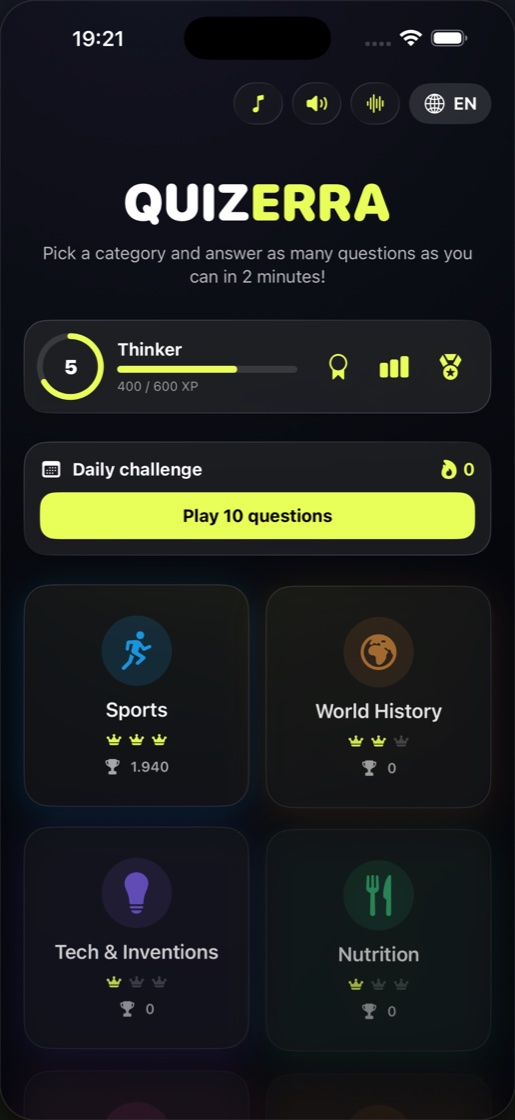
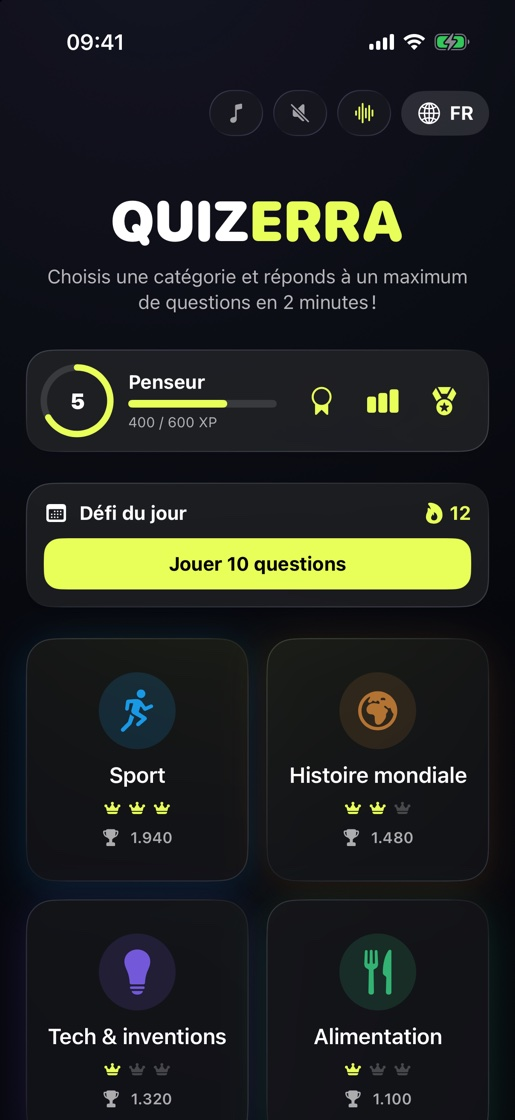
Quizerra auf Französisch: Seiten auf vier Sprachen, echte fr-Bilder, Duell-Menünamen französisch
- Startseite, Apps-Übersicht und Quizerra-Seite in DE/EN/ES/FR: vier Sprachen statt drei
- Quizerra-Bilder /fr/ jetzt echte französische Screenshots (vorher Kopie der englischen)
- Duell-Seite FR: Menünamen wieder französisch, Sprachliste um Französisch ergänzt

diff --git a/fr/apps/quizerra/index.html b/fr/apps/quizerra/index.html
@@ -4,7 +4,7 @@
 <meta charset="UTF-8">
 <meta name="viewport" content="width=device-width, initial-scale=1.0">
 <title>Quizerra – Quiz de culture générale contre la montre</title>
-<meta name="description" content="Quizerra est un quiz de culture générale rapide pour iPhone et iPad : 1 100 questions dans 11 catégories, deux minutes par manche, défi quotidien, 55 emblèmes à collectionner. Gratuit, disponible en allemand, anglais et espagnol.">
+<meta name="description" content="Quizerra est un quiz de culture générale rapide pour iPhone et iPad : 1 100 questions dans 11 catégories, deux minutes par manche, défi quotidien, 55 emblèmes à collectionner. Gratuit, disponible en allemand, anglais, espagnol et français.">
 <link rel="canonical" href="https://sevenfoxes.de/fr/apps/quizerra/">
 <link rel="alternate" hreflang="de" href="https://sevenfoxes.de/apps/quizerra/">
 <link rel="alternate" hreflang="en" href="https://sevenfoxes.de/en/apps/quizerra/">
@@ -12,7 +12,7 @@
 <link rel="alternate" hreflang="fr" href="https://sevenfoxes.de/fr/apps/quizerra/">
 <link rel="alternate" hreflang="x-default" href="https://sevenfoxes.de/apps/quizerra/">
 <meta property="og:title" content="Quizerra – Quiz de culture générale contre la montre">
-<meta property="og:description" content="Quizerra est un quiz de culture générale rapide pour iPhone et iPad : 1 100 questions dans 11 catégories, deux minutes par manche, défi quotidien, 55 emblèmes à collectionner. Gratuit, disponible en allemand, anglais et espagnol.">
+<meta property="og:description" content="Quizerra est un quiz de culture générale rapide pour iPhone et iPad : 1 100 questions dans 11 catégories, deux minutes par manche, défi quotidien, 55 emblèmes à collectionner. Gratuit, disponible en allemand, anglais, espagnol et français.">
 <meta property="og:image" content="https://sevenfoxes.de/assets/img/quizerra/icon.png">
 <meta property="og:type" content="website">
 <meta name="theme-color" content="#F6EDE4">
@@ -22,7 +22,7 @@
 <link rel="preload" href="/assets/fonts/Sora[wght].ttf" as="font" type="font/ttf" crossorigin>
 <link rel="stylesheet" href="/assets/site.css?v=20261016b">
 <meta name="apple-itunes-app" content="app-id=6789493203">
-<script type="application/ld+json">{"@context":"https://schema.org","@type":"MobileApplication","name":"Quizerra","description":"Quizerra est un quiz de culture générale rapide pour iPhone et iPad : 1 100 questions dans 11 catégories, deux minutes par manche, défi quotidien, 55 emblèmes à collectionner. Gratuit, disponible en allemand, anglais et espagnol.","url":"https://sevenfoxes.de/fr/apps/quizerra/","image":"https://sevenfoxes.de/assets/img/quizerra/icon.png","operatingSystem":"iOS","applicationCategory":"GameApplication","applicationSubCategory":"Quiz","availableOnDevice":"iPhone, iPad","installUrl":"https://apps.apple.com/app/id6789493203","inLanguage":"fr","offers":{"@type":"Offer","price":"0","priceCurrency":"EUR"},"publisher":{"@type":"Organization","name":"SevenFoxes Games","url":"https://sevenfoxes.de/"}}</script>
+<script type="application/ld+json">{"@context":"https://schema.org","@type":"MobileApplication","name":"Quizerra","description":"Quizerra est un quiz de culture générale rapide pour iPhone et iPad : 1 100 questions dans 11 catégories, deux minutes par manche, défi quotidien, 55 emblèmes à collectionner. Gratuit, disponible en allemand, anglais, espagnol et français.","url":"https://sevenfoxes.de/fr/apps/quizerra/","image":"https://sevenfoxes.de/assets/img/quizerra/icon.png","operatingSystem":"iOS","applicationCategory":"GameApplication","applicationSubCategory":"Quiz","availableOnDevice":"iPhone, iPad","installUrl":"https://apps.apple.com/app/id6789493203","inLanguage":"fr","offers":{"@type":"Offer","price":"0","priceCurrency":"EUR"},"publisher":{"@type":"Organization","name":"SevenFoxes Games","url":"https://sevenfoxes.de/"}}</script>
 <script data-goatcounter="https://sevenfoxes.goatcounter.com/count" async src="https://gc.zgo.at/count.js"></script>
 </head>
 <body data-world="noir" class="">
@@ -87,7 +87,7 @@ if(n>Date.parse(b.dataset.until)||(b.dataset.from&&n<Date.parse(b.dataset.from))
     <p class="app-sub">Quiz de culture générale contre la montre</p>
     <p class="lead">Que savez-vous vraiment ? Découvrez-le en deux minutes – avec 1 100 questions dans 11 catégories, pour tous ceux qui aiment réfléchir, apprendre et battre leur meilleur score.</p>
     <div class="actions"><a class="btn btn-store" href="https://apps.apple.com/app/id6789493203" rel="noopener"><span class="apple" aria-hidden="true">&#63743;</span><span>Télécharger dans l’App Store<br><small>Gratuit · iPhone & iPad</small></span></a></div>
-    <ul class="statrow"><li><b>1 100</b><span>questions</span></li><li><b>11</b><span>catégories</span></li><li><b>2 min</b><span>par manche</span></li><li><b>3</b><span>langues</span></li></ul>
+    <ul class="statrow"><li><b>1 100</b><span>questions</span></li><li><b>11</b><span>catégories</span></li><li><b>2 min</b><span>par manche</span></li><li><b>4</b><span>langues</span></li></ul>
   </div>
   <div class="panel-art">
     <img class="device" src="/assets/img/quizerra/fr/hero-device.jpg" alt="Menu principal de Quizerra avec les catégories, l’indicateur de niveau et le défi quotidien" width="560" height="1216">

diff --git a/apps/quizerra/index.html b/apps/quizerra/index.html
@@ -4,7 +4,7 @@
 <meta charset="UTF-8">
 <meta name="viewport" content="width=device-width, initial-scale=1.0">
 <title>Quizerra – Wissensquiz gegen die Zeit</title>
-<meta name="description" content="Quizerra ist ein schnelles Wissensquiz für iPhone und iPad: 1.100 Fragen in 11 Kategorien, zwei Minuten pro Runde, tägliche Challenge, 55 Embleme zum Sammeln. Kostenlos, in Deutsch, Englisch und Spanisch.">
+<meta name="description" content="Quizerra ist ein schnelles Wissensquiz für iPhone und iPad: 1.100 Fragen in 11 Kategorien, zwei Minuten pro Runde, tägliche Challenge, 55 Embleme zum Sammeln. Kostenlos, in Deutsch, Englisch, Spanisch und Französisch.">
 <link rel="canonical" href="https://sevenfoxes.de/apps/quizerra/">
 <link rel="alternate" hreflang="de" href="https://sevenfoxes.de/apps/quizerra/">
 <link rel="alternate" hreflang="en" href="https://sevenfoxes.de/en/apps/quizerra/">
@@ -12,7 +12,7 @@
 <link rel="alternate" hreflang="fr" href="https://sevenfoxes.de/fr/apps/quizerra/">
 <link rel="alternate" hreflang="x-default" href="https://sevenfoxes.de/apps/quizerra/">
 <meta property="og:title" content="Quizerra – Wissensquiz gegen die Zeit">
-<meta property="og:description" content="Quizerra ist ein schnelles Wissensquiz für iPhone und iPad: 1.100 Fragen in 11 Kategorien, zwei Minuten pro Runde, tägliche Challenge, 55 Embleme zum Sammeln. Kostenlos, in Deutsch, Englisch und Spanisch.">
+<meta property="og:description" content="Quizerra ist ein schnelles Wissensquiz für iPhone und iPad: 1.100 Fragen in 11 Kategorien, zwei Minuten pro Runde, tägliche Challenge, 55 Embleme zum Sammeln. Kostenlos, in Deutsch, Englisch, Spanisch und Französisch.">
 <meta property="og:image" content="https://sevenfoxes.de/assets/img/quizerra/icon.png">
 <meta property="og:type" content="website">
 <meta name="theme-color" content="#F6EDE4">
@@ -22,7 +22,7 @@
 <link rel="preload" href="/assets/fonts/Sora[wght].ttf" as="font" type="font/ttf" crossorigin>
 <link rel="stylesheet" href="/assets/site.css?v=20261016b">
 <meta name="apple-itunes-app" content="app-id=6789493203">
-<script type="application/ld+json">{"@context":"https://schema.org","@type":"MobileApplication","name":"Quizerra","description":"Quizerra ist ein schnelles Wissensquiz für iPhone und iPad: 1.100 Fragen in 11 Kategorien, zwei Minuten pro Runde, tägliche Challenge, 55 Embleme zum Sammeln. Kostenlos, in Deutsch, Englisch und Spanisch.","url":"https://sevenfoxes.de/apps/quizerra/","image":"https://sevenfoxes.de/assets/img/quizerra/icon.png","operatingSystem":"iOS","applicationCategory":"GameApplication","applicationSubCategory":"Quiz","availableOnDevice":"iPhone, iPad","installUrl":"https://apps.apple.com/app/id6789493203","inLanguage":"de","offers":{"@type":"Offer","price":"0","priceCurrency":"EUR"},"publisher":{"@type":"Organization","name":"SevenFoxes Games","url":"https://sevenfoxes.de/"}}</script>
+<script type="application/ld+json">{"@context":"https://schema.org","@type":"MobileApplication","name":"Quizerra","description":"Quizerra ist ein schnelles Wissensquiz für iPhone und iPad: 1.100 Fragen in 11 Kategorien, zwei Minuten pro Runde, tägliche Challenge, 55 Embleme zum Sammeln. Kostenlos, in Deutsch, Englisch, Spanisch und Französisch.","url":"https://sevenfoxes.de/apps/quizerra/","image":"https://sevenfoxes.de/assets/img/quizerra/icon.png","operatingSystem":"iOS","applicationCategory":"GameApplication","applicationSubCategory":"Quiz","availableOnDevice":"iPhone, iPad","installUrl":"https://apps.apple.com/app/id6789493203","inLanguage":"de","offers":{"@type":"Offer","price":"0","priceCurrency":"EUR"},"publisher":{"@type":"Organization","name":"SevenFoxes Games","url":"https://sevenfoxes.de/"}}</script>
 <script data-goatcounter="https://sevenfoxes.goatcounter.com/count" async src="https://gc.zgo.at/count.js"></script>
 </head>
 <body data-world="noir" class="">
@@ -87,7 +87,7 @@ if(n>Date.parse(b.dataset.until)||(b.dataset.from&&n<Date.parse(b.dataset.from))
     <p class="app-sub">Wissensquiz gegen die Zeit</p>
     <p class="lead">Wie viel weißt du wirklich? Finde es in zwei Minuten heraus – mit 1.100 Fragen aus 11 Kategorien, für alle, die gern nachdenken, dazulernen und ihren Highscore knacken.</p>
     <div class="actions"><a class="btn btn-store" href="https://apps.apple.com/app/id6789493203" rel="noopener"><span class="apple" aria-hidden="true">&#63743;</span><span>Im App Store laden<br><small>Kostenlos · iPhone & iPad</small></span></a></div>
-    <ul class="statrow"><li><b>1.100</b><span>Fragen</span></li><li><b>11</b><span>Kategorien</span></li><li><b>2 Min</b><span>pro Runde</span></li><li><b>3</b><span>Sprachen</span></li></ul>
+    <ul class="statrow"><li><b>1.100</b><span>Fragen</span></li><li><b>11</b><span>Kategorien</span></li><li><b>2 Min</b><span>pro Runde</span></li><li><b>4</b><span>Sprachen</span></li></ul>
   </div>
   <div class="panel-art">
     <img class="device" src="/assets/img/quizerra/de/hero-device.jpg" alt="Quizerra-Hauptmenü mit Kategorien, Level-Anzeige und täglicher Challenge" width="560" height="1216">

diff --git a/en/apps/quizerra/index.html b/en/apps/quizerra/index.html
@@ -4,7 +4,7 @@
 <meta charset="UTF-8">
 <meta name="viewport" content="width=device-width, initial-scale=1.0">
 <title>Quizerra – trivia against the clock</title>
-<meta name="description" content="Quizerra is a fast-paced trivia game for iPhone and iPad: 1,100 questions across 11 categories, two minutes per round, a daily challenge and 55 emblems to collect. Free, in English, German and Spanish.">
+<meta name="description" content="Quizerra is a fast-paced trivia game for iPhone and iPad: 1,100 questions across 11 categories, two minutes per round, a daily challenge and 55 emblems to collect. Free, in English, German, Spanish and French.">
 <link rel="canonical" href="https://sevenfoxes.de/en/apps/quizerra/">
 <link rel="alternate" hreflang="de" href="https://sevenfoxes.de/apps/quizerra/">
 <link rel="alternate" hreflang="en" href="https://sevenfoxes.de/en/apps/quizerra/">
@@ -12,7 +12,7 @@
 <link rel="alternate" hreflang="fr" href="https://sevenfoxes.de/fr/apps/quizerra/">
 <link rel="alternate" hreflang="x-default" href="https://sevenfoxes.de/apps/quizerra/">
 <meta property="og:title" content="Quizerra – trivia against the clock">
-<meta property="og:description" content="Quizerra is a fast-paced trivia game for iPhone and iPad: 1,100 questions across 11 categories, two minutes per round, a daily challenge and 55 emblems to collect. Free, in English, German and Spanish.">
+<meta property="og:description" content="Quizerra is a fast-paced trivia game for iPhone and iPad: 1,100 questions across 11 categories, two minutes per round, a daily challenge and 55 emblems to collect. Free, in English, German, Spanish and French.">
 <meta property="og:image" content="https://sevenfoxes.de/assets/img/quizerra/icon.png">
 <meta property="og:type" content="website">
 <meta name="theme-color" content="#F6EDE4">
@@ -22,7 +22,7 @@
 <link rel="preload" href="/assets/fonts/Sora[wght].ttf" as="font" type="font/ttf" crossorigin>
 <link rel="stylesheet" href="/assets/site.css?v=20261016b">
 <meta name="apple-itunes-app" content="app-id=6789493203">
-<script type="application/ld+json">{"@context":"https://schema.org","@type":"MobileApplication","name":"Quizerra","description":"Quizerra is a fast-paced trivia game for iPhone and iPad: 1,100 questions across 11 categories, two minutes per round, a daily challenge and 55 emblems to collect. Free, in English, German and Spanish.","url":"https://sevenfoxes.de/en/apps/quizerra/","image":"https://sevenfoxes.de/assets/img/quizerra/icon.png","operatingSystem":"iOS","applicationCategory":"GameApplication","applicationSubCategory":"Quiz","availableOnDevice":"iPhone, iPad","installUrl":"https://apps.apple.com/app/id6789493203","inLanguage":"en","offers":{"@type":"Offer","price":"0","priceCurrency":"EUR"},"publisher":{"@type":"Organization","name":"SevenFoxes Games","url":"https://sevenfoxes.de/"}}</script>
+<script type="application/ld+json">{"@context":"https://schema.org","@type":"MobileApplication","name":"Quizerra","description":"Quizerra is a fast-paced trivia game for iPhone and iPad: 1,100 questions across 11 categories, two minutes per round, a daily challenge and 55 emblems to collect. Free, in English, German, Spanish and French.","url":"https://sevenfoxes.de/en/apps/quizerra/","image":"https://sevenfoxes.de/assets/img/quizerra/icon.png","operatingSystem":"iOS","applicationCategory":"GameApplication","applicationSubCategory":"Quiz","availableOnDevice":"iPhone, iPad","installUrl":"https://apps.apple.com/app/id6789493203","inLanguage":"en","offers":{"@type":"Offer","price":"0","priceCurrency":"EUR"},"publisher":{"@type":"Organization","name":"SevenFoxes Games","url":"https://sevenfoxes.de/"}}</script>
 <script data-goatcounter="https://sevenfoxes.goatcounter.com/count" async src="https://gc.zgo.at/count.js"></script>
 </head>
 <body data-world="noir" class="">
@@ -87,7 +87,7 @@ if(n>Date.parse(b.dataset.until)||(b.dataset.from&&n<Date.parse(b.dataset.from))
     <p class="app-sub">Trivia against the clock</p>
     <p class="lead">How much do you really know? Find out in two minutes – with 1,100 questions across 11 categories, for everyone who loves to think, learn something new and beat their own high score.</p>
     <div class="actions"><a class="btn btn-store" href="https://apps.apple.com/app/id6789493203" rel="noopener"><span class="apple" aria-hidden="true">&#63743;</span><span>Download on the App Store<br><small>Free · iPhone & iPad</small></span></a></div>
-    <ul class="statrow"><li><b>1,100</b><span>questions</span></li><li><b>11</b><span>categories</span></li><li><b>2 min</b><span>per round</span></li><li><b>3</b><span>languages</span></li></ul>
+    <ul class="statrow"><li><b>1,100</b><span>questions</span></li><li><b>11</b><span>categories</span></li><li><b>2 min</b><span>per round</span></li><li><b>4</b><span>languages</span></li></ul>
   </div>
   <div class="panel-art">
     <img class="device" src="/assets/img/quizerra/en/hero-device.jpg" alt="Quizerra main menu with categories, level indicator and daily challenge" width="560" height="1216">

diff --git a/es/apps/quizerra/index.html b/es/apps/quizerra/index.html
@@ -4,7 +4,7 @@
 <meta charset="UTF-8">
 <meta name="viewport" content="width=device-width, initial-scale=1.0">
 <title>Quizerra – trivial contrarreloj</title>
-<meta name="description" content="Quizerra es un juego de preguntas rápido para iPhone y iPad: 1.100 preguntas en 11 categorías, dos minutos por ronda, reto diario y 55 emblemas por coleccionar. Gratis, en español, alemán e inglés.">
+<meta name="description" content="Quizerra es un juego de preguntas rápido para iPhone y iPad: 1.100 preguntas en 11 categorías, dos minutos por ronda, reto diario y 55 emblemas por coleccionar. Gratis, en español, alemán, inglés y francés.">
 <link rel="canonical" href="https://sevenfoxes.de/es/apps/quizerra/">
 <link rel="alternate" hreflang="de" href="https://sevenfoxes.de/apps/quizerra/">
 <link rel="alternate" hreflang="en" href="https://sevenfoxes.de/en/apps/quizerra/">
@@ -12,7 +12,7 @@
 <link rel="alternate" hreflang="fr" href="https://sevenfoxes.de/fr/apps/quizerra/">
 <link rel="alternate" hreflang="x-default" href="https://sevenfoxes.de/apps/quizerra/">
 <meta property="og:title" content="Quizerra – trivial contrarreloj">
-<meta property="og:description" content="Quizerra es un juego de preguntas rápido para iPhone y iPad: 1.100 preguntas en 11 categorías, dos minutos por ronda, reto diario y 55 emblemas por coleccionar. Gratis, en español, alemán e inglés.">
+<meta property="og:description" content="Quizerra es un juego de preguntas rápido para iPhone y iPad: 1.100 preguntas en 11 categorías, dos minutos por ronda, reto diario y 55 emblemas por coleccionar. Gratis, en español, alemán, inglés y francés.">
 <meta property="og:image" content="https://sevenfoxes.de/assets/img/quizerra/icon.png">
 <meta property="og:type" content="website">
 <meta name="theme-color" content="#F6EDE4">
@@ -22,7 +22,7 @@
 <link rel="preload" href="/assets/fonts/Sora[wght].ttf" as="font" type="font/ttf" crossorigin>
 <link rel="stylesheet" href="/assets/site.css?v=20261016b">
 <meta name="apple-itunes-app" content="app-id=6789493203">
-<script type="application/ld+json">{"@context":"https://schema.org","@type":"MobileApplication","name":"Quizerra","description":"Quizerra es un juego de preguntas rápido para iPhone y iPad: 1.100 preguntas en 11 categorías, dos minutos por ronda, reto diario y 55 emblemas por coleccionar. Gratis, en español, alemán e inglés.","url":"https://sevenfoxes.de/es/apps/quizerra/","image":"https://sevenfoxes.de/assets/img/quizerra/icon.png","operatingSystem":"iOS","applicationCategory":"GameApplication","applicationSubCategory":"Quiz","availableOnDevice":"iPhone, iPad","installUrl":"https://apps.apple.com/app/id6789493203","inLanguage":"es","offers":{"@type":"Offer","price":"0","priceCurrency":"EUR"},"publisher":{"@type":"Organization","name":"SevenFoxes Games","url":"https://sevenfoxes.de/"}}</script>
+<script type="application/ld+json">{"@context":"https://schema.org","@type":"MobileApplication","name":"Quizerra","description":"Quizerra es un juego de preguntas rápido para iPhone y iPad: 1.100 preguntas en 11 categorías, dos minutos por ronda, reto diario y 55 emblemas por coleccionar. Gratis, en español, alemán, inglés y francés.","url":"https://sevenfoxes.de/es/apps/quizerra/","image":"https://sevenfoxes.de/assets/img/quizerra/icon.png","operatingSystem":"iOS","applicationCategory":"GameApplication","applicationSubCategory":"Quiz","availableOnDevice":"iPhone, iPad","installUrl":"https://apps.apple.com/app/id6789493203","inLanguage":"es","offers":{"@type":"Offer","price":"0","priceCurrency":"EUR"},"publisher":{"@type":"Organization","name":"SevenFoxes Games","url":"https://sevenfoxes.de/"}}</script>
 <script data-goatcounter="https://sevenfoxes.goatcounter.com/count" async src="https://gc.zgo.at/count.js"></script>
 </head>
 <body data-world="noir" class="">
@@ -87,7 +87,7 @@ if(n>Date.parse(b.dataset.until)||(b.dataset.from&&n<Date.parse(b.dataset.from))
     <p class="app-sub">Trivial contrarreloj</p>
     <p class="lead">¿Cuánto sabes de verdad? Descúbrelo en dos minutos, con 1.100 preguntas en 11 categorías, para quienes disfrutan pensando, aprendiendo cosas nuevas y superando su récord.</p>
     <div class="actions"><a class="btn btn-store" href="https://apps.apple.com/app/id6789493203" rel="noopener"><span class="apple" aria-hidden="true">&#63743;</span><span>Descargar en el App Store<br><small>Gratis · iPhone y iPad</small></span></a></div>
-    <ul class="statrow"><li><b>1.100</b><span>preguntas</span></li><li><b>11</b><span>categorías</span></li><li><b>2 min</b><span>por ronda</span></li><li><b>3</b><span>idiomas</span></li></ul>
+    <ul class="statrow"><li><b>1.100</b><span>preguntas</span></li><li><b>11</b><span>categorías</span></li><li><b>2 min</b><span>por ronda</span></li><li><b>4</b><span>idiomas</span></li></ul>
   </div>
   <div class="panel-art">
     <img class="device" src="/assets/img/quizerra/es/hero-device.jpg" alt="Menú principal de Quizerra con categorías, indicador de nivel y reto diario" width="560" height="1216">

diff --git a/index.html b/index.html
@@ -99,7 +99,7 @@ if(n>Date.parse(b.dataset.until)||(b.dataset.from&&n<Date.parse(b.dataset.from))
       <h3 id="p-quizerra"><span class="display">QUIZ<b>ERRA</b></span></h3></div>
     <p class="app-sub">Wissensquiz gegen die Zeit</p>
     <p>Wähle eine Kategorie und beantworte in zwei Minuten so viele Fragen wie möglich. Jede richtige Antwort bringt Punkte, Serien bringen Bonus.</p>
-    <ul class="facts"><li>1.100 Fragen</li><li>11 Kategorien</li><li>3 Sprachen</li><li>Kostenlos</li></ul>
+    <ul class="facts"><li>1.100 Fragen</li><li>11 Kategorien</li><li>4 Sprachen</li><li>Kostenlos</li></ul>
     <div class="actions"><a class="btn btn-store" href="https://apps.apple.com/app/id6789493203" rel="noopener"><span class="apple" aria-hidden="true">&#63743;</span><span>Im App Store laden<br><small>Kostenlos · iPhone & iPad</small></span></a>
       <a class="btn btn-ghost" href="/apps/quizerra/">Mehr erfahren</a></div>
   </div>
@@ -150,8 +150,8 @@ if(n>Date.parse(b.dataset.until)||(b.dataset.from&&n<Date.parse(b.dataset.from))
     <p class="eyebrow">Das Studio</p>
     <h2>Klein, unabhängig, selbst gebaut</h2>
   </div>
-  <div class="narrow"><p>SevenFoxes Games ist ein Ein-Personen-Studio. Jede Frage in unseren Apps ist von Hand geschrieben und in drei Sprachen geprüft – nicht übersetzt, sondern jeweils so formuliert, wie man es in der Sprache tatsächlich fragen würde.</p><p>Wir bauen Spiele, die wir selbst gern spielen: schnell zu starten, ohne Anmeldung, ohne Wartezeiten und ohne Tricks, die einen länger festhalten sollen als man möchte.</p></div>
-  <div class="principles"><div class="principle"><h3>Kein Konto, keine Server</h3><p>Spielstände bleiben auf deinem Gerät. Wir betreiben keine eigenen Server und sammeln nichts ein.</p></div><div class="principle"><h3>Drei Sprachen, ein Katalog</h3><p>Deutsch, Englisch und Spanisch – jede Frage in jeder Sprache eigens formuliert und geprüft.</p></div><div class="principle"><h3>Für Kinder werbefrei</h3><p>Quizerra Kids kommt ohne Werbung und Tracking aus. Alles, was Geld kostet, liegt hinter einer Elternsicherung.</p></div></div>
+  <div class="narrow"><p>SevenFoxes Games ist ein Ein-Personen-Studio. Jede Frage in unseren Apps ist von Hand geschrieben und in vier Sprachen geprüft – nicht übersetzt, sondern jeweils so formuliert, wie man es in der Sprache tatsächlich fragen würde.</p><p>Wir bauen Spiele, die wir selbst gern spielen: schnell zu starten, ohne Anmeldung, ohne Wartezeiten und ohne Tricks, die einen länger festhalten sollen als man möchte.</p></div>
+  <div class="principles"><div class="principle"><h3>Kein Konto, keine Server</h3><p>Spielstände bleiben auf deinem Gerät. Wir betreiben keine eigenen Server und sammeln nichts ein.</p></div><div class="principle"><h3>Vier Sprachen, ein Katalog</h3><p>Deutsch, Englisch, Spanisch und Französisch – jede Frage in jeder Sprache eigens formuliert und geprüft.</p></div><div class="principle"><h3>Für Kinder werbefrei</h3><p>Quizerra Kids kommt ohne Werbung und Tracking aus. Alles, was Geld kostet, liegt hinter einer Elternsicherung.</p></div></div>
 </section>
 </main>
 

diff --git a/es/index.html b/es/index.html
@@ -99,7 +99,7 @@ if(n>Date.parse(b.dataset.until)||(b.dataset.from&&n<Date.parse(b.dataset.from))
       <h3 id="p-quizerra"><span class="display">QUIZ<b>ERRA</b></span></h3></div>
     <p class="app-sub">Trivial contrarreloj</p>
     <p>Elige una categoría y responde tantas preguntas como puedas en dos minutos. Cada acierto suma puntos y las rachas dan bonus.</p>
-    <ul class="facts"><li>1.100 preguntas</li><li>11 categorías</li><li>3 idiomas</li><li>Gratis</li></ul>
+    <ul class="facts"><li>1.100 preguntas</li><li>11 categorías</li><li>4 idiomas</li><li>Gratis</li></ul>
     <div class="actions"><a class="btn btn-store" href="https://apps.apple.com/app/id6789493203" rel="noopener"><span class="apple" aria-hidden="true">&#63743;</span><span>Descargar en el App Store<br><small>Gratis · iPhone y iPad</small></span></a>
       <a class="btn btn-ghost" href="/es/apps/quizerra/">Más información</a></div>
   </div>
@@ -150,8 +150,8 @@ if(n>Date.parse(b.dataset.until)||(b.dataset.from&&n<Date.parse(b.dataset.from))
     <p class="eyebrow">El estudio</p>
     <h2>Pequeño, independiente, hecho a mano</h2>
   </div>
-  <div class="narrow"><p>SevenFoxes Games es un estudio de una sola persona. Cada pregunta de nuestras apps está escrita a mano y revisada en tres idiomas: no traducida, sino formulada tal como se preguntaría de verdad en cada idioma.</p><p>Hacemos los juegos que nos gusta jugar: rápidos de empezar, sin registro, sin esperas y sin trucos pensados para retenerte más tiempo del que quieres.</p></div>
-  <div class="principles"><div class="principle"><h3>Sin cuenta, sin servidores</h3><p>Tu progreso se queda en tu dispositivo. No tenemos servidores propios y no recopilamos nada.</p></div><div class="principle"><h3>Tres idiomas, un catálogo</h3><p>Español, alemán e inglés: cada pregunta escrita y revisada por separado en cada idioma.</p></div><div class="principle"><h3>Sin publicidad para los niños</h3><p>Quizerra Kids no tiene anuncios ni rastreo. Todo lo que cuesta dinero está detrás de un control parental.</p></div></div>
+  <div class="narrow"><p>SevenFoxes Games es un estudio de una sola persona. Cada pregunta de nuestras apps está escrita a mano y revisada en cuatro idiomas: no traducida, sino formulada tal como se preguntaría de verdad en cada idioma.</p><p>Hacemos los juegos que nos gusta jugar: rápidos de empezar, sin registro, sin esperas y sin trucos pensados para retenerte más tiempo del que quieres.</p></div>
+  <div class="principles"><div class="principle"><h3>Sin cuenta, sin servidores</h3><p>Tu progreso se queda en tu dispositivo. No tenemos servidores propios y no recopilamos nada.</p></div><div class="principle"><h3>Cuatro idiomas, un catálogo</h3><p>Español, alemán, inglés y francés: cada pregunta escrita y revisada por separado en cada idioma.</p></div><div class="principle"><h3>Sin publicidad para los niños</h3><p>Quizerra Kids no tiene anuncios ni rastreo. Todo lo que cuesta dinero está detrás de un control parental.</p></div></div>
 </section>
 </main>
 

diff --git a/en/index.html b/en/index.html
@@ -99,7 +99,7 @@ if(n>Date.parse(b.dataset.until)||(b.dataset.from&&n<Date.parse(b.dataset.from))
       <h3 id="p-quizerra"><span class="display">QUIZ<b>ERRA</b></span></h3></div>
     <p class="app-sub">Trivia against the clock</p>
     <p>Pick a category and answer as many questions as you can in two minutes. Every correct answer scores, streaks earn a bonus.</p>
-    <ul class="facts"><li>1,100 questions</li><li>11 categories</li><li>3 languages</li><li>Free</li></ul>
+    <ul class="facts"><li>1,100 questions</li><li>11 categories</li><li>4 languages</li><li>Free</li></ul>
     <div class="actions"><a class="btn btn-store" href="https://apps.apple.com/app/id6789493203" rel="noopener"><span class="apple" aria-hidden="true">&#63743;</span><span>Download on the App Store<br><small>Free · iPhone & iPad</small></span></a>
       <a class="btn btn-ghost" href="/en/apps/quizerra/">Learn more</a></div>
   </div>
@@ -150,8 +150,8 @@ if(n>Date.parse(b.dataset.until)||(b.dataset.from&&n<Date.parse(b.dataset.from))
     <p class="eyebrow">The studio</p>
     <h2>Small, independent, built by hand</h2>
   </div>
-  <div class="narrow"><p>SevenFoxes Games is a one-person studio. Every question in our apps is written by hand and checked in three languages – not translated, but phrased the way you would actually ask it in each language.</p><p>We build the games we like to play ourselves: quick to start, no sign-up, no waiting, and no tricks designed to keep you hooked longer than you want to be.</p></div>
-  <div class="principles"><div class="principle"><h3>No account, no servers</h3><p>Your progress stays on your device. We run no servers of our own and collect nothing.</p></div><div class="principle"><h3>Three languages, one catalog</h3><p>English, German and Spanish – every question written and checked separately in each language.</p></div><div class="principle"><h3>Ad-free for kids</h3><p>Quizerra Kids has no ads and no tracking. Anything that costs money sits behind a parental gate.</p></div></div>
+  <div class="narrow"><p>SevenFoxes Games is a one-person studio. Every question in our apps is written by hand and checked in four languages – not translated, but phrased the way you would actually ask it in each language.</p><p>We build the games we like to play ourselves: quick to start, no sign-up, no waiting, and no tricks designed to keep you hooked longer than you want to be.</p></div>
+  <div class="principles"><div class="principle"><h3>No account, no servers</h3><p>Your progress stays on your device. We run no servers of our own and collect nothing.</p></div><div class="principle"><h3>Four languages, one catalog</h3><p>English, German, Spanish and French – every question written and checked separately in each language.</p></div><div class="principle"><h3>Ad-free for kids</h3><p>Quizerra Kids has no ads and no tracking. Anything that costs money sits behind a parental gate.</p></div></div>
 </section>
 </main>
 

diff --git a/fr/index.html b/fr/index.html
@@ -99,7 +99,7 @@ if(n>Date.parse(b.dataset.until)||(b.dataset.from&&n<Date.parse(b.dataset.from))
       <h3 id="p-quizerra"><span class="display">QUIZ<b>ERRA</b></span></h3></div>
     <p class="app-sub">Quiz de culture générale contre la montre</p>
     <p>Choisissez une catégorie et répondez à autant de questions que possible en deux minutes. Chaque bonne réponse rapporte des points, les séries rapportent un bonus.</p>
-    <ul class="facts"><li>1 100 questions</li><li>11 catégories</li><li>3 langues</li><li>Gratuit</li></ul>
+    <ul class="facts"><li>1 100 questions</li><li>11 catégories</li><li>4 langues</li><li>Gratuit</li></ul>
     <div class="actions"><a class="btn btn-store" href="https://apps.apple.com/app/id6789493203" rel="noopener"><span class="apple" aria-hidden="true">&#63743;</span><span>Télécharger dans l’App Store<br><small>Gratuit · iPhone & iPad</small></span></a>
       <a class="btn btn-ghost" href="/fr/apps/quizerra/">En savoir plus</a></div>
   </div>
@@ -151,7 +151,7 @@ if(n>Date.parse(b.dataset.until)||(b.dataset.from&&n<Date.parse(b.dataset.from))
     <h2>Petit, indépendant, fait maison</h2>
   </div>
   <div class="narrow"><p>SevenFoxes Games est un studio d’une seule personne. Chaque question de nos apps est écrite à la main et vérifiée dans chacune des langues proposées – non pas traduite, mais formulée à chaque fois comme on la poserait vraiment dans cette langue.</p><p>Nous créons des jeux auxquels nous aimons jouer nous-mêmes : rapides à lancer, sans inscription, sans temps d’attente et sans mécanismes conçus pour vous retenir plus longtemps que vous ne le souhaitez.</p></div>
-  <div class="principles"><div class="principle"><h3>Pas de compte, pas de serveurs</h3><p>Vos sauvegardes restent sur votre appareil. Nous n’exploitons aucun serveur et ne collectons rien.</p></div><div class="principle"><h3>Trois langues, un seul catalogue</h3><p>Allemand, anglais et espagnol – chaque question est formulée et vérifiée séparément dans chaque langue. Quizerra Kids existe en plus en français.</p></div><div class="principle"><h3>Sans publicité pour les enfants</h3><p>Quizerra Kids se passe de publicité et de pistage. Tout ce qui coûte de l’argent se trouve derrière un contrôle parental.</p></div></div>
+  <div class="principles"><div class="principle"><h3>Pas de compte, pas de serveurs</h3><p>Vos sauvegardes restent sur votre appareil. Nous n’exploitons aucun serveur et ne collectons rien.</p></div><div class="principle"><h3>Quatre langues, un seul catalogue</h3><p>Allemand, anglais, espagnol et français – chaque question est formulée et vérifiée séparément dans chaque langue.</p></div><div class="principle"><h3>Sans publicité pour les enfants</h3><p>Quizerra Kids se passe de publicité et de pistage. Tout ce qui coûte de l’argent se trouve derrière un contrôle parental.</p></div></div>
 </section>
 </main>
 

diff --git a/fr/duel/index.html b/fr/duel/index.html
@@ -48,7 +48,7 @@
     <span><span class="display">QUIZ<b>ERRA</b></span></span></div>
   <p class="eyebrow" style="margin-top:24px">Invitation à un duel</p>
   <h1>On vous défie en duel !</h1>
-  <p class="lead" style="margin-top:12px">Les mêmes questions, chacun dans sa langue (allemand, anglais ou espagnol) : 5 manches de 3 questions, 15 secondes par question. Téléchargez Quizerra gratuitement et affrontez votre ami.</p>
+  <p class="lead" style="margin-top:12px">Les mêmes questions, chacun dans sa langue (allemand, anglais, espagnol ou français) : 5 manches de 3 questions, 15 secondes par question. Téléchargez Quizerra gratuitement et affrontez votre ami.</p>
   <div class="contact-card invite-card">
     <div id="invite-code" hidden>
       <p class="eyebrow">Votre code d’invitation</p>
@@ -61,7 +61,7 @@
     </div>
   </div>
   <h2 style="font-size:1.3rem">Comment ça marche</h2>
-  <ol class="steps" style="margin-top:16px"><li>Téléchargez Quizerra gratuitement dans l’App Store et connectez-vous à Game Center.</li><li>Touchez ici « Ouvrir le duel » – ou, dans l’app (qui s’affiche en anglais), ouvrez “Duel” → “Challenge a friend” → “Enter invite code”.</li><li>Saisissez le code s’il n’est pas déjà rempli. Et voilà, vous êtes dans le même duel.</li></ol>
+  <ol class="steps" style="margin-top:16px"><li>Téléchargez Quizerra gratuitement dans l’App Store et connectez-vous à Game Center.</li><li>Touchez ici « Ouvrir le duel » – ou, dans l’app, ouvrez « Duel » → « Défier un ami » → « Saisir le code d’invitation ».</li><li>Saisissez le code s’il n’est pas déjà rempli. Et voilà, vous êtes dans le même duel.</li></ol>
   <p class="muted" style="margin-top:28px">Le lien ne contient que le code, aucune donnée personnelle. Le duel passe par le Game Center d’Apple.</p>
 </section>
 <script>(function(){

diff --git a/fr/apps/index.html b/fr/apps/index.html
@@ -91,7 +91,7 @@ if(n>Date.parse(b.dataset.until)||(b.dataset.from&&n<Date.parse(b.dataset.from))
       <h3 id="p-quizerra"><span class="display">QUIZ<b>ERRA</b></span></h3></div>
     <p class="app-sub">Quiz de culture générale contre la montre</p>
     <p>Choisissez une catégorie et répondez à autant de questions que possible en deux minutes. Chaque bonne réponse rapporte des points, les séries rapportent un bonus.</p>
-    <ul class="facts"><li>1 100 questions</li><li>11 catégories</li><li>3 langues</li><li>Gratuit</li></ul>
+    <ul class="facts"><li>1 100 questions</li><li>11 catégories</li><li>4 langues</li><li>Gratuit</li></ul>
     <div class="actions"><a class="btn btn-store" href="https://apps.apple.com/app/id6789493203" rel="noopener"><span class="apple" aria-hidden="true">&#63743;</span><span>Télécharger dans l’App Store<br><small>Gratuit · iPhone & iPad</small></span></a>
       <a class="btn btn-ghost" href="/fr/apps/quizerra/">En savoir plus</a></div>
   </div>

diff --git a/apps/index.html b/apps/index.html
@@ -91,7 +91,7 @@ if(n>Date.parse(b.dataset.until)||(b.dataset.from&&n<Date.parse(b.dataset.from))
       <h3 id="p-quizerra"><span class="display">QUIZ<b>ERRA</b></span></h3></div>
     <p class="app-sub">Wissensquiz gegen die Zeit</p>
     <p>Wähle eine Kategorie und beantworte in zwei Minuten so viele Fragen wie möglich. Jede richtige Antwort bringt Punkte, Serien bringen Bonus.</p>
-    <ul class="facts"><li>1.100 Fragen</li><li>11 Kategorien</li><li>3 Sprachen</li><li>Kostenlos</li></ul>
+    <ul class="facts"><li>1.100 Fragen</li><li>11 Kategorien</li><li>4 Sprachen</li><li>Kostenlos</li></ul>
     <div class="actions"><a class="btn btn-store" href="https://apps.apple.com/app/id6789493203" rel="noopener"><span class="apple" aria-hidden="true">&#63743;</span><span>Im App Store laden<br><small>Kostenlos · iPhone & iPad</small></span></a>
       <a class="btn btn-ghost" href="/apps/quizerra/">Mehr erfahren</a></div>
   </div>

diff --git a/es/apps/index.html b/es/apps/index.html
@@ -91,7 +91,7 @@ if(n>Date.parse(b.dataset.until)||(b.dataset.from&&n<Date.parse(b.dataset.from))
       <h3 id="p-quizerra"><span class="display">QUIZ<b>ERRA</b></span></h3></div>
     <p class="app-sub">Trivial contrarreloj</p>
     <p>Elige una categoría y responde tantas preguntas como puedas en dos minutos. Cada acierto suma puntos y las rachas dan bonus.</p>
-    <ul class="facts"><li>1.100 preguntas</li><li>11 categorías</li><li>3 idiomas</li><li>Gratis</li></ul>
+    <ul class="facts"><li>1.100 preguntas</li><li>11 categorías</li><li>4 idiomas</li><li>Gratis</li></ul>
     <div class="actions"><a class="btn btn-store" href="https://apps.apple.com/app/id6789493203" rel="noopener"><span class="apple" aria-hidden="true">&#63743;</span><span>Descargar en el App Store<br><small>Gratis · iPhone y iPad</small></span></a>
       <a class="btn btn-ghost" href="/es/apps/quizerra/">Más información</a></div>
   </div>
